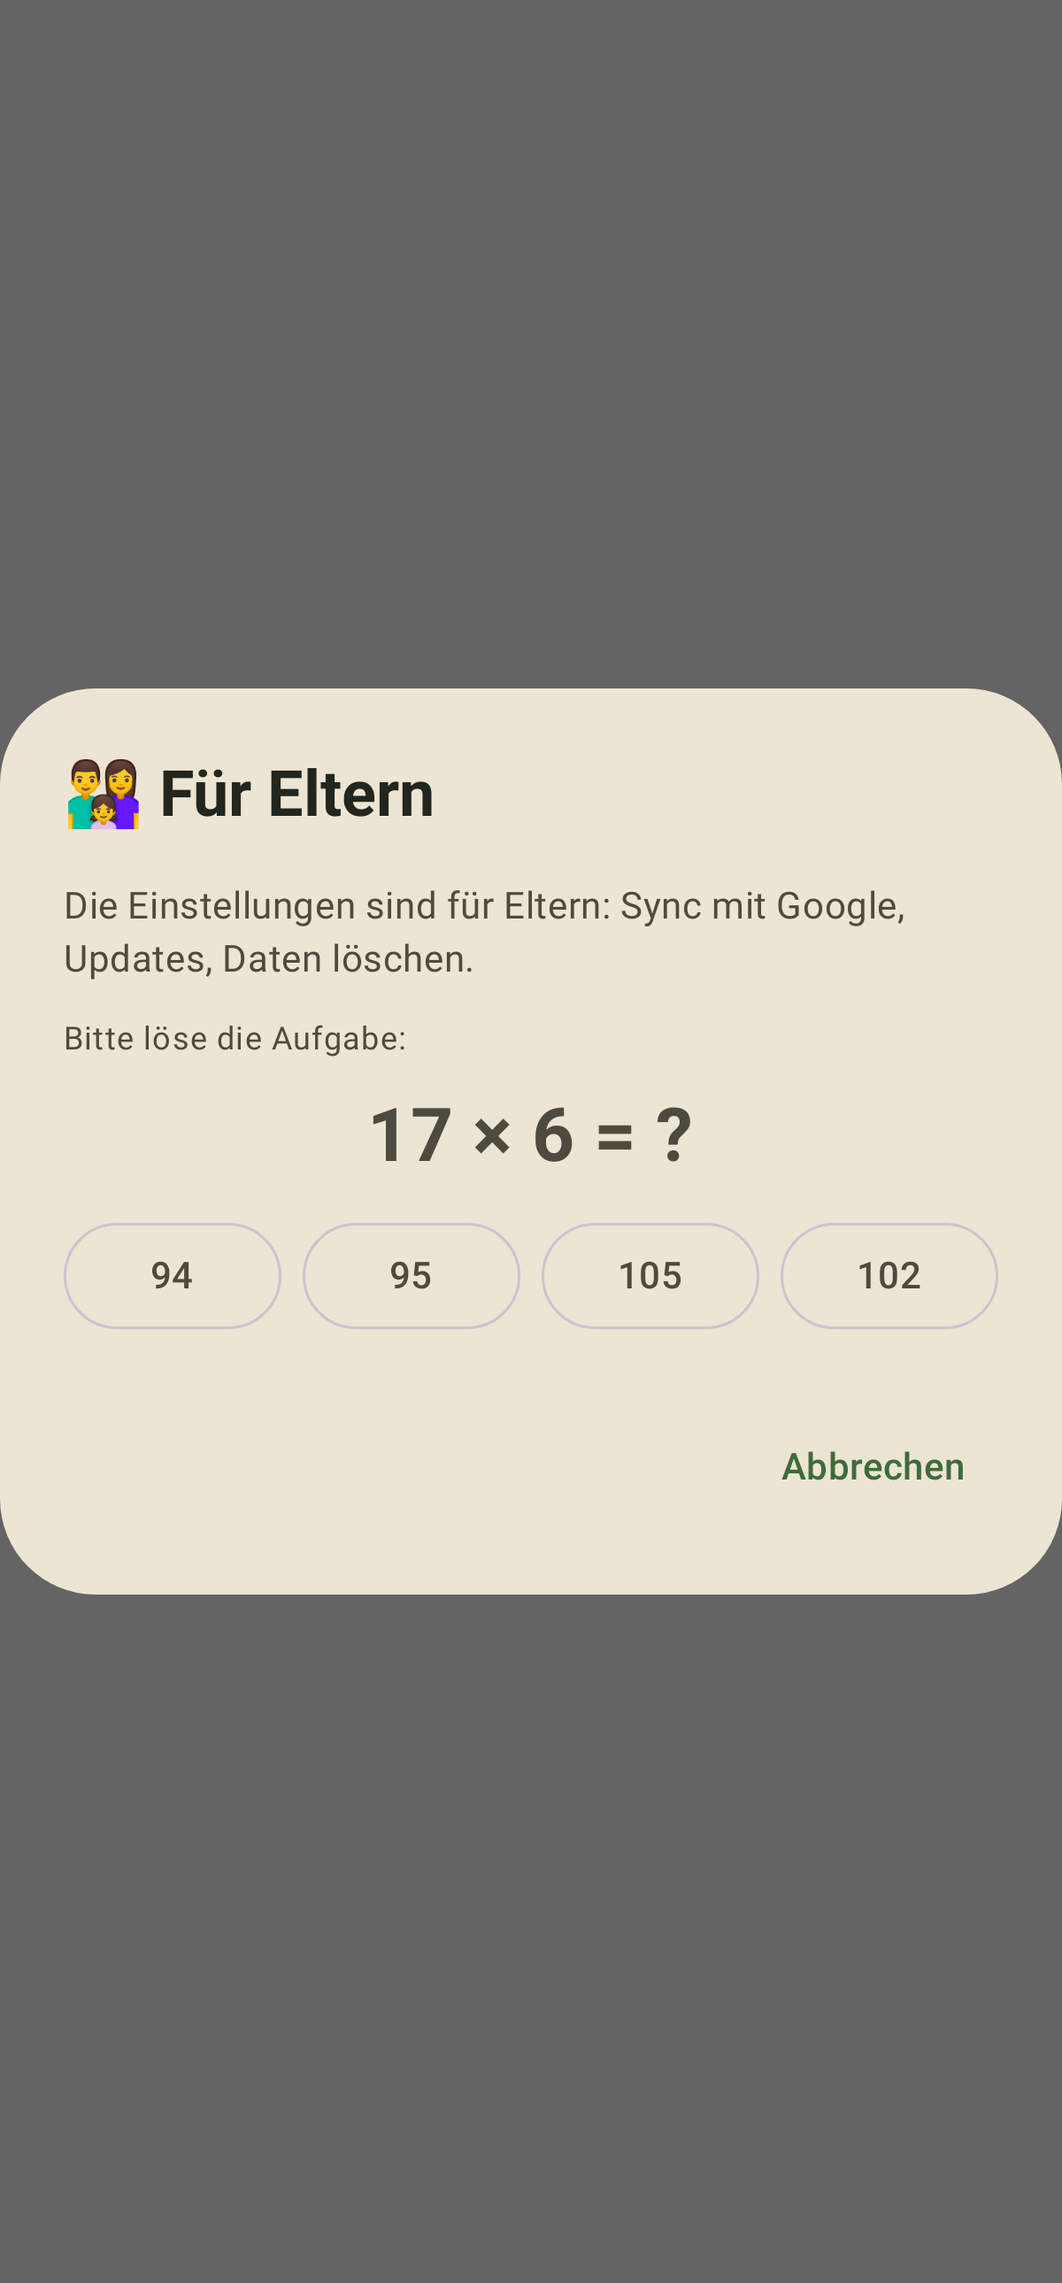
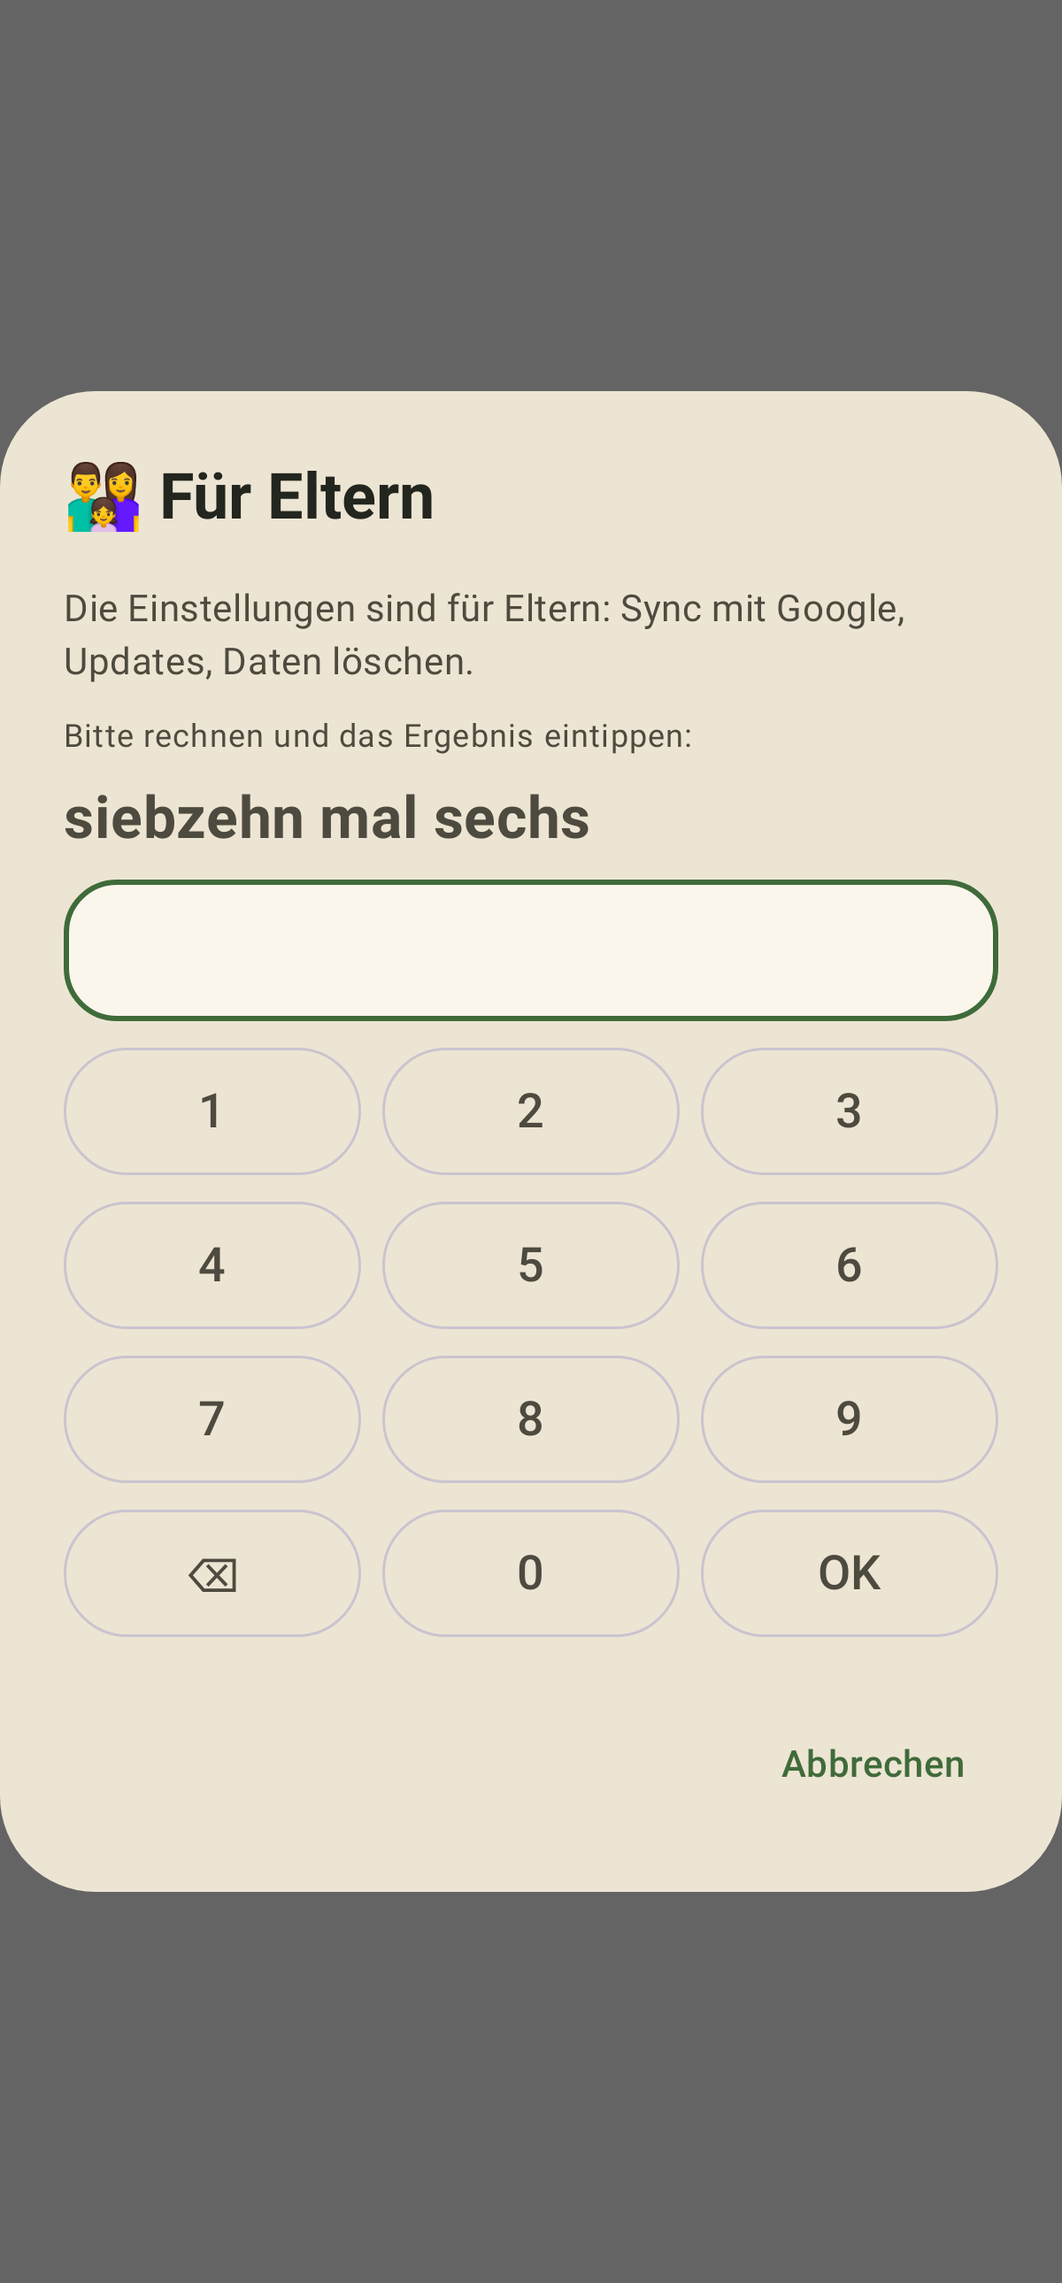
Wissensgarten 2.3.1: PC-Layout (größer, Himmel/Wiese), Bild-Bremse für langsame Rechner, Eltern-Tor nach Standard
Claude-Session: https://claude.ai/code/session_015vg1Tm7yM3ri4iaUJ7mSEw

diff --git a/wissensgarten/shared/src/commonMain/kotlin/de/wissensgarten/app/ui/common/ParentGate.kt b/wissensgarten/shared/src/commonMain/kotlin/de/wissensgarten/app/ui/common/ParentGate.kt
@@ -27,12 +27,18 @@ object ParentGate {
     /** Wird aufgerufen, wenn Eltern das Tor gerade geöffnet haben (für die anonyme Zählung „elternbereich“) */
     var onPassed: (() -> Unit)? = null
 
-    /** Aufgabe: zweistellig × einstellig – für Erwachsene leicht, für Grundschulkinder schwer. */
-    data class Task(val a: Int, val b: Int) { val answer get() = a * b }
+    /** Aufgabe: zweistellig × einstellig – für Erwachsene leicht, für Grundschulkinder schwer (gemeinsamer Standard ELTERN-TOR.md). */
+    data class Task(val a: Int, val b: Int) {
+        val answer get() = a * b
+        /** In Worten, damit Leseanfänger nicht einfach rechnen: „siebzehn mal acht“ */
+        val words get() = "${wort(a)} mal ${wort(b)}"
+    }
     fun task(r: Random = Random) = Task(r.nextInt(13, 20), r.nextInt(6, 10))
-    /** Vier Antworten, eine richtig – keine Tastatur nötig, aber Raten hilft kaum (3 Fehlversuche → neue Aufgabe). */
-    fun options(t: Task, r: Random = Random) = (listOf(t.answer) + generateSequence { t.answer + r.nextInt(-12, 13) }
-        .filter { it != t.answer && it > 0 }.distinct().take(3)).shuffled(r)
+    private val WORTE = mapOf(6 to "sechs", 7 to "sieben", 8 to "acht", 9 to "neun", 13 to "dreizehn", 14 to "vierzehn", 15 to "fünfzehn",
+        16 to "sechzehn", 17 to "siebzehn", 18 to "achtzehn", 19 to "neunzehn")
+    fun wort(n: Int) = WORTE[n] ?: n.toString()
+    /** Höchstens 3 Ziffern (größtes Ergebnis 19 × 9 = 171) */
+    const val MAX_DIGITS = 3
 }
 
 /** Ruft [onPass] auf – sofort, wenn das Tor offen ist, sonst nach gelöster Aufgabe. */
@@ -53,32 +59,59 @@ fun ParentGateHost(content: @Composable () -> Unit) {
     }
 }
 
+/**
+ * Eltern-Aufgabe in Worten mit Vorlese-Knopf, Eingabe über eine eigene Ziffern-Tastatur (keine Auswahlknöpfe, kein Raten).
+ * Nach EINEM Fehler kommt sofort eine neue Aufgabe. Kein Zeitdruck, Abbrechen jederzeit.
+ */
 @Composable
 fun ParentGateDialog(reason: String, onPass: () -> Unit, onCancel: () -> Unit, random: Random = remember { Random }) {
     var task by remember { mutableStateOf(ParentGate.task(random)) }
-    var options by remember(task) { mutableStateOf(ParentGate.options(task, random)) }
-    var wrong by remember(task) { mutableIntStateOf(0) }
+    var input by remember(task) { mutableStateOf("") }
+    var wrong by remember { mutableStateOf(false) }
+    val voice = de.wissensgarten.app.ui.fx.LocalVoice.current
+    fun check() {
+        if (input.isEmpty()) return
+        if (input.toIntOrNull() == task.answer) { voice?.stop(); onPass() } else { wrong = true; task = ParentGate.task(random) }
+    }
     AlertDialog(
-        onDismissRequest = onCancel,
+        onDismissRequest = { voice?.stop(); onCancel() },
         title = { Text("👨👩👧 Für Eltern") },
         text = {
-            Column(verticalArrangement = Arrangement.spacedBy(12.dp)) {
+            Column(verticalArrangement = Arrangement.spacedBy(10.dp)) {
                 Text(reason, style = MaterialTheme.typography.bodyMedium)
-                Text("Bitte löse die Aufgabe:", style = MaterialTheme.typography.bodySmall)
-                Text("${task.a} × ${task.b} = ?", fontSize = 28.sp, fontWeight = FontWeight.Bold,
-                    modifier = Modifier.align(Alignment.CenterHorizontally).semantics { contentDescription = "${task.a} mal ${task.b}" })
-                Row(horizontalArrangement = Arrangement.spacedBy(8.dp), modifier = Modifier.fillMaxWidth()) {
-                    options.forEach { o ->
-                        OutlinedButton(onClick = {
-                            if (o == task.answer) onPass()
-                            else if (++wrong >= 3) task = ParentGate.task(random)
-                        }, modifier = Modifier.weight(1f), contentPadding = PaddingValues(4.dp)) { Text("$o") }
+                Text("Bitte rechnen und das Ergebnis eintippen:", style = MaterialTheme.typography.bodySmall)
+                Row(verticalAlignment = Alignment.CenterVertically, modifier = Modifier.fillMaxWidth()) {
+                    Text(task.words, fontSize = 22.sp, fontWeight = FontWeight.Bold, modifier = Modifier.weight(1f)
+                        .semantics { contentDescription = "Aufgabe: ${task.words}" })
+                    if (voice != null) IconButton(onClick = { voice.speak(task.words, de.wissensgarten.app.ui.fx.Locale.GERMAN) },
+                        modifier = Modifier.semantics { contentDescription = "Aufgabe vorlesen" }) { Text("🔊", fontSize = 22.sp) }
+                }
+                Surface(shape = MaterialTheme.shapes.medium, color = MaterialTheme.colorScheme.surface,
+                    border = androidx.compose.foundation.BorderStroke(2.dp, MaterialTheme.colorScheme.primary), modifier = Modifier.fillMaxWidth()) {
+                    Text(input.ifEmpty { " " }, fontSize = 28.sp, fontWeight = FontWeight.Bold, modifier = Modifier.padding(10.dp)
+                        .semantics { contentDescription = if (input.isEmpty()) "Noch keine Eingabe" else "Eingabe $input" })
+                }
+                if (wrong) Text("Das war nicht richtig – hier ist eine neue Aufgabe.", color = MaterialTheme.colorScheme.error,
+                    style = MaterialTheme.typography.bodySmall)
+                // Eigene Ziffern-Tastatur: 1–9, ⌫, 0, OK
+                listOf(listOf("1", "2", "3"), listOf("4", "5", "6"), listOf("7", "8", "9"), listOf("⌫", "0", "OK")).forEach { row ->
+                    Row(horizontalArrangement = Arrangement.spacedBy(8.dp), modifier = Modifier.fillMaxWidth()) {
+                        row.forEach { k ->
+                            OutlinedButton(onClick = {
+                                when (k) {
+                                    "⌫" -> input = input.dropLast(1)
+                                    "OK" -> check()
+                                    else -> if (input.length < ParentGate.MAX_DIGITS) input += k
+                                }
+                            }, modifier = Modifier.weight(1f).heightIn(min = 48.dp)
+                                .semantics { contentDescription = when (k) { "⌫" -> "Löschen"; "OK" -> "Bestätigen"; else -> k } },
+                                contentPadding = PaddingValues(4.dp)) { Text(k, fontSize = 18.sp) }
+                        }
                     }
                 }
-                if (wrong > 0) Text("Leider falsch – noch einmal.", color = MaterialTheme.colorScheme.error, style = MaterialTheme.typography.bodySmall)
             }
         },
         confirmButton = {},
-        dismissButton = { TextButton(onClick = onCancel) { Text("Abbrechen") } },
+        dismissButton = { TextButton(onClick = { voice?.stop(); onCancel() }) { Text("Abbrechen") } },
     )
 }

diff --git a/wissensgarten/shared/src/commonMain/kotlin/de/wissensgarten/app/App.kt b/wissensgarten/shared/src/commonMain/kotlin/de/wissensgarten/app/App.kt
@@ -14,6 +14,8 @@ import androidx.compose.material.icons.filled.Storefront
 import androidx.compose.material.icons.filled.Spa
 import androidx.compose.material3.*
 import androidx.compose.runtime.*
+import androidx.compose.foundation.background
+import androidx.compose.ui.draw.shadow
 import androidx.compose.ui.Modifier
 import androidx.compose.ui.input.pointer.pointerInput
 import androidx.compose.ui.graphics.vector.ImageVector
@@ -171,9 +173,18 @@ private class AppUi(val vm: AppViewModel, val host: AppHost) {
                 host.music.unlock()
                 if (!jinglePlayed) { jinglePlayed = true; sfx.play(de.wissensgarten.app.ui.fx.Sound.JINGLE, volume = 0.7f) }
             }, color = MaterialTheme.colorScheme.background) {
-              // Tablets: Inhalt mittig in angenehmer Breite statt über den ganzen Bildschirm gezogen
-              Box(Modifier.fillMaxSize(), contentAlignment = androidx.compose.ui.Alignment.TopCenter) {
-              Box(Modifier.fillMaxHeight().widthIn(max = 720.dp)) {
+              // Tablets und PC: Inhalt mittig in angenehmer Breite. Auf breiten Bildschirmen wird alles etwas größer
+              // (statt einer schmalen Spalte), und die Ränder zeigen Himmel und Wiese statt leerer Fläche.
+              androidx.compose.foundation.layout.BoxWithConstraints(Modifier.fillMaxSize()) {
+              val outer = androidx.compose.ui.platform.LocalDensity.current
+              val scale = ((maxWidth.value - 760f) / 1400f + 1f).coerceIn(1f, 1.3f).let { if (maxHeight.value < 640f) 1f else it }
+              val wide = maxWidth > 800.dp
+              Box(Modifier.fillMaxSize().then(if (wide) Modifier.background(androidx.compose.ui.graphics.Brush.verticalGradient(
+                  listOf(androidx.compose.ui.graphics.Color(0xFFCFE8F7), MaterialTheme.colorScheme.background, androidx.compose.ui.graphics.Color(0xFFDDEFD0)))) else Modifier),
+                  contentAlignment = androidx.compose.ui.Alignment.TopCenter) {
+              CompositionLocalProvider(androidx.compose.ui.platform.LocalDensity provides androidx.compose.ui.unit.Density(outer.density * scale, outer.fontScale)) {
+              Box(Modifier.fillMaxHeight().widthIn(max = 760.dp).then(if (wide) Modifier.shadow(8.dp)
+                  .background(MaterialTheme.colorScheme.background) else Modifier)) {
               de.wissensgarten.app.ui.common.ParentGateHost {
                 val nav = rememberNavController()
                 AppNav(nav, startRoute)
@@ -203,7 +214,7 @@ private class AppUi(val vm: AppViewModel, val host: AppHost) {
                             nav.navigate(Routes.bed(z.bedId)) { launchSingleTop = true }
                         }
                         is AppViewModel.PaketZiel.Pflanzen -> if (gepflanzt != id) { gepflanzt = id; vm.plantPack(z.pack) }
-                        AppViewModel.PaketZiel.Plus -> { paketRequest.value = null; host.toast("🌟 Dieses Paket gehört zu Wissensgarten Plus."); nav.navigate(Routes.SHOP) { launchSingleTop = true } }
+                        AppViewModel.PaketZiel.Plus -> { paketRequest.value = null; host.toast("🌟 Das gehört zu Wissensgarten Plus. Deine Eltern können im Elternbereich nachsehen."); nav.navigate(Routes.SHOP) { launchSingleTop = true } }
                         AppViewModel.PaketZiel.Unbekannt -> { paketRequest.value = null; nav.navigate(Routes.SHOP) { launchSingleTop = true } }
                     }
                 }
@@ -214,6 +225,8 @@ private class AppUi(val vm: AppViewModel, val host: AppHost) {
                     }
                 }
                 host.voice?.let { de.wissensgarten.app.ui.fx.NovaLadehinweis(it, host) }
+              }
+              }
               }
               }
               }
@@ -448,7 +461,7 @@ private class AppUi(val vm: AppViewModel, val host: AppHost) {
                             profile = p, packs = angebot + vm.plusPreviews.collectAsStateWithLifecycle().value.filter(de.wissensgarten.core.model.Angebot::angeboten), beds = beds, canUse = vm.entitlements::canUse,
                             onLocked = {
                                 if (vm.entitlements.code != null) { host.toast("🐝 Brummi holt die Plus-Pakete … gleich noch einmal antippen."); vm.refreshPlusPacksIfDue(force = true) }
-                                else gate("Dieses Paket gehört zu Wissensgarten Plus.") { nav.navigate(Routes.PLUS) }
+                                else gate("Das gehört zu Wissensgarten Plus. Deine Eltern können im Elternbereich nachsehen.") { nav.navigate(Routes.PLUS) }
                             },
                             onPlant = vm::plantPack,
                             onOpenBed = { nav.navigate(Routes.bed(it)) },

diff --git a/wissensgarten/webApp/src/webMain/resources/index.html b/wissensgarten/webApp/src/webMain/resources/index.html
@@ -121,6 +121,39 @@
       } catch (e) { window.wgDiag('Wasm-Protokoll nicht möglich: ' + e); }
     })();
   </script>
+  <script>
+    // Bild-Bremse für langsame Rechner (z. B. PC ohne Grafik-Beschleunigung): Kostet das Zeichnen eines Bildes im Schnitt
+    // mehr als ~22 ms, zeichnet der Garten höchstens 20 Bilder pro Sekunde. So bleibt Zeit für Tippen, Wischen und Klicken,
+    // statt dass die Seite „hängt“. Läuft es wieder flüssig, wird die Bremse von selbst gelöst. Abschalten: ?bremse=aus
+    (function () {
+      try {
+        if (/[?&]bremse=aus/.test(location.search)) { window.wgStartNote && window.wgStartNote('Bild-Bremse aus'); return; }
+        var orig = window.requestAnimationFrame.bind(window), cancel = window.cancelAnimationFrame.bind(window);
+        var queue = [], nextId = 1, pending = false, slow = false, cost = 0, last = 0;
+        var tick = function (t) {
+          if (slow && t - last < 45) { orig(tick); return; }
+          pending = false; last = t;
+          var q = queue; queue = [];
+          var s = performance.now();
+          for (var i = 0; i < q.length; i++) { try { q[i].cb(t); } catch (e) { (function (x) { setTimeout(function () { throw x; }); })(e); } }
+          var d = performance.now() - s;
+          if (q.length) cost = cost * 0.85 + d * 0.15;
+          if (!slow && cost > 22) { slow = true; window.wgDiag && window.wgDiag('Bild-Bremse an (Zeichnen ' + Math.round(cost) + ' ms) → höchstens 20 Bilder/s'); }
+          else if (slow && cost < 9) { slow = false; window.wgDiag && window.wgDiag('Bild-Bremse aus (Zeichnen ' + Math.round(cost) + ' ms)'); }
+          if (queue.length && !pending) { pending = true; orig(tick); }
+        };
+        window.requestAnimationFrame = function (cb) {
+          var id = nextId++; queue.push({ id: id, cb: cb });
+          if (!pending) { pending = true; orig(tick); }
+          return id;
+        };
+        window.cancelAnimationFrame = function (id) {
+          for (var i = 0; i < queue.length; i++) if (queue[i].id === id) { queue.splice(i, 1); return; }
+        };
+        window.wgBremse = function () { return { an: slow, ms: Math.round(cost) }; };
+      } catch (e) {}
+    })();
+  </script>
   <link rel="icon" type="image/png" sizes="192x192" href="icons/icon-192.png">
   <link rel="apple-touch-icon" href="icons/icon-192.png">
   <style>

diff --git a/wissensgarten/app/src/test/java/de/wissensgarten/app/ui/ParentGateTest.kt b/wissensgarten/app/src/test/java/de/wissensgarten/app/ui/ParentGateTest.kt
@@ -9,16 +9,16 @@ import java.io.File
 import kotlin.random.Random
 
 class ParentGateTest {
-    @Test fun tasksAreForAdultsAndHaveExactlyOneRightAnswer() {
+    @Test fun tasksAreForAdultsAndWrittenInWords() {
         val r = Random(1)
         repeat(200) {
             val t = ParentGate.task(r)
             assertTrue("zu leicht: ${t.a}×${t.b}", t.answer >= 78)
-            val o = ParentGate.options(t, r)
-            assertEquals(4, o.toSet().size)
-            assertEquals(1, o.count { it == t.answer })
-            assertTrue(o.all { it > 0 })
+            assertTrue(t.answer.toString().length <= ParentGate.MAX_DIGITS)
+            assertFalse("Ziffern in „${t.words}“", t.words.any { it.isDigit() })
+            assertTrue(t.words.contains(" mal "))
         }
+        assertEquals("siebzehn mal acht", ParentGate.Task(17, 8).words)
     }
 
     @Test fun gateStaysOpenTenMinutes() {

diff --git a/wissensgarten/MELDUNG_AN_LEITSTAND.md b/wissensgarten/MELDUNG_AN_LEITSTAND.md
@@ -9,6 +9,23 @@
 
 
 
+## 2.3.1 – PC-Darstellung, Bild-Bremse, Eltern-Tor nach gemeinsamem Standard (19.11.2026)
+- **Anlass:** Marcel meldete, dass die App am PC im Vollbild nicht schön aussieht und sehr hängt.
+- **Breite Bildschirme** (`App.kt`, BoxWithConstraints):
+  - Ab 800 dp Breite steht der Inhalt als Karte mit Schatten in der Mitte, die Ränder zeigen einen Verlauf von Himmel zu Wiese.
+  - Alles wird proportional größer (Dichte × bis 1,3), die Spalte ist 760 dp breit. Bei 1844 px Breite sind das etwa 990 px statt bisher 720 px.
+  - Auf Handys bleibt alles wie bisher.
+- **Bild-Bremse** (`index.html`, vor dem Laden der App):
+  - `requestAnimationFrame` wird gebündelt. Liegt die mittlere Zeichenzeit über ~22 ms, gibt es höchstens 20 Bilder/s, und der Haupt-Thread bleibt für Eingaben frei.
+  - Unter ~9 ms wird die Bremse wieder gelöst.
+  - Abschalten mit `?bremse=aus`, Stand über `window.wgBremse()` bzw. `?diag=1`.
+  - Messung im Container (Chromium ohne Grafikkarte): Der Willkommensschirm zeichnete dauernd neu und kam nur auf 4–7 Bilder/s, weil die Wachs-Animation praktisch die ganze Rechenzeit kostete. Auf einem PC ohne Grafik-Beschleunigung ist das genau das gemeldete Hängen.
+- **Eltern-Tor** nach ELTERN-TOR.md:
+  - Aufgabe in Worten mit Vorlese-Knopf, eigene Ziffern-Tastatur, nach einem Fehler sofort eine neue Aufgabe, 10 Minuten offen nur im Arbeitsspeicher.
+  - Schloss-Text: „Das gehört zu Wissensgarten Plus. Deine Eltern können im Elternbereich nachsehen.“
+  - Bildschirmfoto `51_eltern_tor.png`, `ParentGateTest` grün.
+- **Laden:** Der veraltete Text „Plus-Pakete (gerade gratis)“ ist entfernt, die Eltern-Info aktualisiert.
+
 ## 2.3.0 – Umzug auf lernen(-test).mathenachhilfe-online.com/wissensgarten/ (19.11.2026, Standard UMZUG-LERNEN.md)
 - **Alte Adresse** (wissensgarten[-test].…, am Hostnamen erkannt). Beim Start, bevor die App lädt (Startbild: „Wir ziehen um … Brummi packt deinen Garten ein“):
   1. Pflicht-Schutz: `lernen…/wissensgarten/icons/icon-192.png` muss als Bild laden (10 s). Bei 404, 503 oder Zertifikatsfehler wird nicht weitergeleitet und die App startet wie bisher.

diff --git a/wissensgarten/CHANGELOG.md b/wissensgarten/CHANGELOG.md
@@ -3,6 +3,13 @@
 Kurz und verständlich für Eltern und Kinder. Der Abschnitt der aktuellen Version erscheint automatisch
 im GitHub-Release und in der App unter „App-Update“.
 
+## 2.3.1 – Schöner am großen Bildschirm, flüssiger auf langsamen Rechnern (19.11.2026)
+- **Am PC und großen Bildschirm:** Der Garten ist jetzt größer und breiter statt einer schmalen Spalte, die Ränder zeigen Himmel und Wiese.
+- **Flüssiger auf langsamen Rechnern:** Kommt ein Rechner beim Zeichnen nicht hinterher (z. B. ohne Grafik-Beschleunigung), malt der Garten etwas weniger Bilder pro Sekunde. Dafür reagiert er sofort auf Tippen, Klicken und Wischen, statt zu hängen.
+- **Neues Eltern-Tor (gemeinsam für alle unsere Lern-Apps):** Die Aufgabe steht jetzt in Worten (z. B. „siebzehn mal acht“) und lässt sich vorlesen. Die Antwort tippt ihr über eine Zifferntastatur ein, nach einem Fehler kommt sofort eine neue Aufgabe. So kommen Kinder nicht mehr durch Raten hinein.
+- Im Laden steht kein veralteter Plus-Hinweis mehr. Tippt ein Kind auf ein Plus-Paket, heißt es nur noch sachlich: „Das gehört zu Wissensgarten Plus. Deine Eltern können im Elternbereich nachsehen.“
+- Dein Lernstand bleibt vollständig erhalten.
+
 ## 2.3.0 – Neue Adresse für alle Lern-Apps (19.11.2026)
 - **Der Wissensgarten wohnt jetzt unter lernen.mathenachhilfe-online.com/wissensgarten/** – zusammen mit allen anderen Lern-Apps unter einer Adresse.
 - **Der Garten zieht automatisch mit:** Wer die alte Adresse öffnet, wird weitergeleitet, und Brummi packt den Lernstand ein: Profile, Beete, Karten, Fortschritt, Einstellungen und (wenn sie hineinpassen) selbst gemalte Merkbilder. Das geht Ende-zu-Ende verschlüsselt, unser Server kann nichts lesen und löscht die Umzugs-Sicherung gleich danach.
